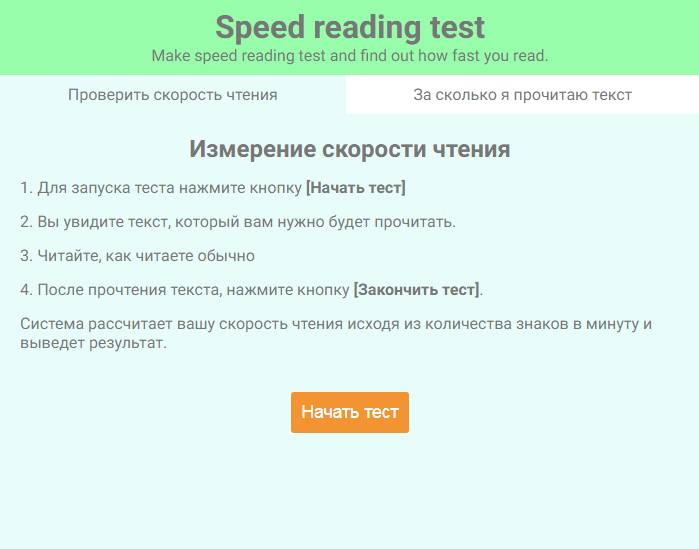
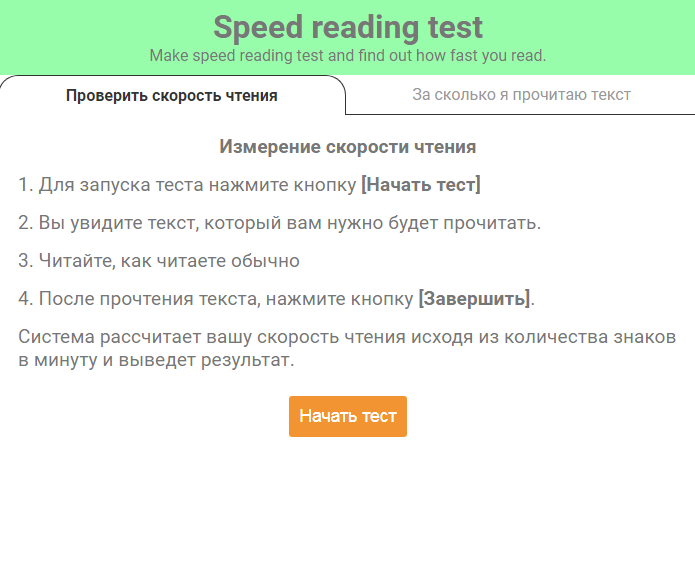
Fix some bugs in the speed-reading project

Changed region(s): [[0.0302, 0.2477, 0.9669, 0.6503], [0.0, 0.031, 1.0, 0.2168], [0.3928, 0.6812, 0.6043, 0.8051]]

diff --git a/speed-reading-test/js/model.js b/speed-reading-test/js/model.js
@@ -1,0 +1,46 @@
+const textData = {
+    startSpeedReadingText: `<h2>Измерение скорости чтения</h2>
+                <p>1. Для запуска теста нажмите кнопку <strong>[Начать тест]</strong></p>
+                <p>2. Вы увидите текст, который вам нужно будет прочитать.</p>
+                <p>3. Читайте, как читаете обычно</p>
+                <p>4. После прочтения текста, нажмите кнопку <strong>[Завершить]</strong>.</p>
+                <p>Система рассчитает вашу скорость чтения исходя из количества знаков в минуту и выведет результат.</p>`,
+    testText: `<h2>Всё о чтении.</h2>
+    <p>Мысленно вернитесь в свое детство, когда вас учили читать. Сначала вы выучили алфавит и то, как буквы складываются в слоги. Затем – как из слогов получаются слова. И вот вы за партой и читаете вслух.</p>
+<p>При чтении вслух вас учили выговаривать слово за словом. Эта привычка, скорее всего, перешла и в чтение про себя. Если, читая про себя, вы все время проговариваете слова, значит, вы читаете не быстрее, чем говорите, примерно 150 слов в минуту. Складывание букв в слоги, а потом слогов в слова логически подводит к следующему шагу – формированию из слов фраз или смысловых единиц. Слова – это символы коммуникации, которые полностью передают смысл, только будучи связанными друг с другом. Поскольку вы учились читать, когда были ребенком, то, скорее всего, и сейчас стараетесь преуспеть в своем «взрослом» чтении с помощью устаревших методов давно прошедших школьных дней. Психологи считают, что наши важнейшие навыки формируются еще в детстве, а чтение – один из них. Неудивительно, что большинство из нас не справляются с современными потоками информации.</p>
+<p>Неэффективные навыки характеризуются в основном пассивным поведением,а эффективные требуют активного поведения. Приобретая навык скорочтения, вы станете больше читать за меньшее время, лучше сосредотачиваться, а также лучше понимать и запоминать информацию.</p>
+<p>Когда вы читаете, ваши глаза работают как фотоаппарат. Вы фотографируете слова и отправляете снимок в мозг, а он мгновенно интерпретирует смысл слов. В действительности, пока вы читаете эти строки, ваши глаза постоянно останавливаются – это около 95% времени, потраченного на чтение. Ваш взгляд не переходит непрерывно от слова к слову, а все время задерживается и вновь начинает движение. Позже, когда вы научите свои глаза делать цельный, или панорамный фотоснимок, вашему взгляду не придется так часто останавливаться, и он будет схватывать больше. Картинки большего размера означают большее количество слов, отправленных в ваш мозг на каждой остановке, и в результате он получает возможность понимать фразы и предложения. Как только вы научитесь чувствовать ритм чтения, вы сможете читать дольше, не уставая, и получать гораздо больше информации за минуту.</p>
+<p>Просмотр статей, сайтов, форумов, вывесок, чтение блогов, книг, заголовков стало для нас ежедневной практикой. Кто владеет информацией, тот владеет миром.</p>
+<p>Улучшив свои читательские способности, вы обнаружите, что приобрели множество полезных качеств – стали интересным собеседником или более квалифицированным работником, улучшили скорость обучения, запоминания и поиска информации, начали меньше уставать, а успевать больше. Скорочтение - это не только про книги. Это про вашу личную эффективность.</p>`,
+    startTimeReadingText: `<h2>За какое время вы сможете прочитать произвольный текст</h2>
+            <p>1. Введите в первое поле скорость вашего чтения (количество знаков в минуту)</p>
+            <p>2. Скопируйте нужный вам текст (может быть любого размера)</p>
+            <p>3. Вставьте текст во второе поле</p>
+            <p>4. Нажмите на кнопку <strong>[Показать результат]</strong></p>`,
+    questions: ``
+}
+
+const data = {
+    block1: `<div class="block__description">${textData.startSpeedReadingText}</div>
+            <div class="block__result">
+                <button class="btn start">Начать тест</button>
+            </div>`,
+    blockTest: `<div class="block__description">${textData.testText}</div>
+            <div class="block__result">
+                <button class="btn stop">Завершить</button>
+            </div>`,
+    questionsBlock: `<div class="block__description">${textData.questions}</div>
+            <div class="block__result">
+                <button class="btn show-result">Показать результат</button>
+            </div>`,
+    block2: `<div>${textData.startTimeReadingText}</div>
+
+            <input type="number" id="characters" name="charecters">
+            <label for="characters">Количество знаков в минуту</label>
+            <textarea name="my-text" placeholder="Вставьте ваш текст сюда"></textarea>
+            <div class="block__result">
+                <button class="btn find">Показать результат</button>
+                <span class="result" id="result-find"></span>
+            </div>`
+}
+

diff --git a/speed-reading-test/style.css b/speed-reading-test/style.css
@@ -37,7 +37,6 @@ header {
 .container {
     flex-grow: 1;
     width: 100%;
-    background-color: var(--active-color);
 }
 
 .tabs {
@@ -49,20 +48,29 @@ header {
     padding: 10px;
     flex-grow: 1;
     text-align: center;
+    color: #999;
     cursor: pointer;
     background-color: #fff;
     transition: color 0.3s ease;
+    border-bottom: 1px solid #333;
 }
 .tab:hover {
     color: #f39432;
 }
 
 .tab--active {
-    background-color: var(--active-color);
+    color: #333;
+    font-weight: bold;
+    border-bottom: none;
+    border-top: 1px solid #333;
+    border-left: 1px solid #333;
+    border-right: 1px solid #333;
+    border-top-left-radius: 20px;
+    border-top-right-radius: 20px;
 }
 
 .block {
-    padding: 20px;
+    padding: 20px 30px;
 }
 
 .block__description {
@@ -76,6 +84,7 @@ header {
 .block p {
     color: var(--main-color);
     padding-top: 15px;
+    font-size: 1.2rem;
     font-weight: 400;
 }
 
@@ -92,7 +101,7 @@ header {
     min-height: 20vh;
     border: 1px solid #999;
     border-radius: 3px;
-    margin: 20px 0;
+    margin: 20px 0 0;
     padding: 5px;
 }
 
@@ -113,6 +122,8 @@ span.result {
 }
 
 .btn {
+    display: block;
+    margin: 0 auto;
     padding: 10px;
     background-color: #f39432;
     border: none;
@@ -121,15 +132,18 @@ span.result {
     color: #fff;
     font-size: 1.1rem;
     cursor: pointer;
-    transition: opacity 0.3s ease;
+    transition: background-color 0.3s ease;
 }
 .btn:hover {
-    opacity: 0.8;
+    background-color: #f9871b;
 }
 
-.start, .stop {
-    display: block;
-    margin: 0 auto;
+.finish-result {
+    width: 80%;
+    margin: 20px auto;
+    padding: 20px;
+    border-radius: 10px;
+    box-shadow: 0 0 15px -5px rgba(0, 0, 0, .4);
 }
 
 footer {
@@ -157,13 +171,34 @@ footer a:hover {
 }
 
 
-@media (max-width: 480px) {
+@media (max-width: 720px) {
+    .block {
+        padding: 20px;
+    }
+
+    .block h2 {
+        font-size: 1.2rem;
+    }
+
+    .block textarea {
+        min-height: 10vh;
+    }
+
     .block__result {
-        flex-direction: column;
+        flex-direction: column-reverse;
         padding: 5px 0;
+    }
+
+    .btn {
+        padding: 10px 50px;
+        font-size: 1.3rem;
     }
 
     span.result {
         padding: 10px;
+    }
+
+    .finish-result {
+        width: 100%;
     }
 }

diff --git a/speed-reading-test/js/test-speed.js b/speed-reading-test/js/test-speed.js
@@ -1,0 +1,56 @@
+function startTest() {
+    const startBtn = document.querySelector('.start');
+    startBtn.addEventListener('click', () => {
+        createBlock(block1, data.blockTest);
+
+        getReadingSpeed();
+    });
+}
+
+function getCharacterAmount(text) {
+    const re = /[ ,—\.-;\n()'"«»…]/;
+    text = text.split(re).join('');
+
+    return text.length;
+}
+
+function getReadingSpeed() {
+    const text = document.querySelector('.block__description').textContent;
+    const textLength = getCharacterAmount(text);
+    const beginTime = +new Date();
+
+    const stopBtn = document.querySelector('.stop');
+    stopBtn.addEventListener('click', () => {
+        const endTime = +new Date();
+        const resultTime = (Math.round((endTime - beginTime) / 1000) / 60).toFixed(2);
+        const minutes = Math.floor(resultTime);
+        const seconds = Math.round(Math.floor((resultTime - Math.floor(resultTime)) * 100) * 0.6);
+        const result = Math.round(textLength / resultTime);
+
+        showResults(textLength, minutes, seconds, result);
+
+//         alert(`Вы прочитали текст за ${minutes} минут и ${seconds} секунд
+// Ваша скорость чтения равна ${result} знаков/минуту`);
+//         start();
+    });
+}
+
+function showResults(textLength, minutes, seconds, result) {
+    const resultBlock = `
+        <div class="finish-result">
+            <div class="block__description">
+                <h2>Результаты теста</h2>
+                <p>Количество знаков в тексте: ${textLength}</p>
+                <p><strong>Время чтения:</strong> ${minutes} минут и ${seconds} секунд</p>
+                <p><strong>Скорость чтения:</strong> ${result} знаков в минуту</p>
+            </div>
+            <div class="block__result">
+                <button class="btn start-again">Начать заново</button>
+            </div>
+        </div>`;
+
+    createBlock(block1, resultBlock);
+
+    const startAgainBtn = document.querySelector('.start-again');
+    startAgainBtn.addEventListener('click', start);
+}

diff --git a/speed-reading-test/js/find-time.js b/speed-reading-test/js/find-time.js
@@ -9,14 +9,13 @@ function findReadingTime() {
     findBtn.addEventListener('click', () => {
         const checkForm = formValidate(inputEl, textAreaEl);
         if (!checkForm) {
-            console.log(resultEl);
             resultEl.textContent = 'Заполните все поля';
             return;
         }
 
         const textLength = getCharacterAmount(textAreaEl.value);
-        const result = textLength / +inputEl.value;
-        resultEl.innerHTML = `Данный текст содержит <strong>${textLength}</strong> знаков без пробелов. <br> Вы прочитаете этот текст примерно за <strong>${Math.round(result)}</strong> минут.`;
+        const result = Math.round(textLength / +inputEl.value);
+        resultEl.innerHTML = `Данный текст содержит <strong>${textLength}</strong> знаков без пробелов. <br> Вы прочитаете этот текст примерно за <strong>${Math.floor(result / 60)}</strong> час(ов) и <strong>${result % 60}</strong> минут.`;
     });
 }
 

diff --git a/speed-reading-test/js/script.js b/speed-reading-test/js/script.js
@@ -12,12 +12,6 @@ function start() {
 
 function createBlock(block, blockContent) {
     block.innerHTML = blockContent;
-    // Object.keys(obj).forEach(item => {
-    //     const elem = document.createElement(item);
-    //     elem.classList.add(...obj[item][0]);
-    //     elem.innerHTML = obj[item][1];
-    //     block.append(elem);
-    // });
 }
 
 function changeTab(tab1, block1, tab2, block2) {

diff --git a/speed-reading-test/index.html b/speed-reading-test/index.html
@@ -34,9 +34,9 @@
     </footer>
 
 
-    <script src="model.js"></script>
-    <script src="test-speed.js"></script>
-    <script src="find-time.js"></script>
-    <script src="script.js"></script>
+    <script src="js/model.js"></script>
+    <script src="js/test-speed.js"></script>
+    <script src="js/find-time.js"></script>
+    <script src="js/script.js"></script>
 </body>
 </html>
